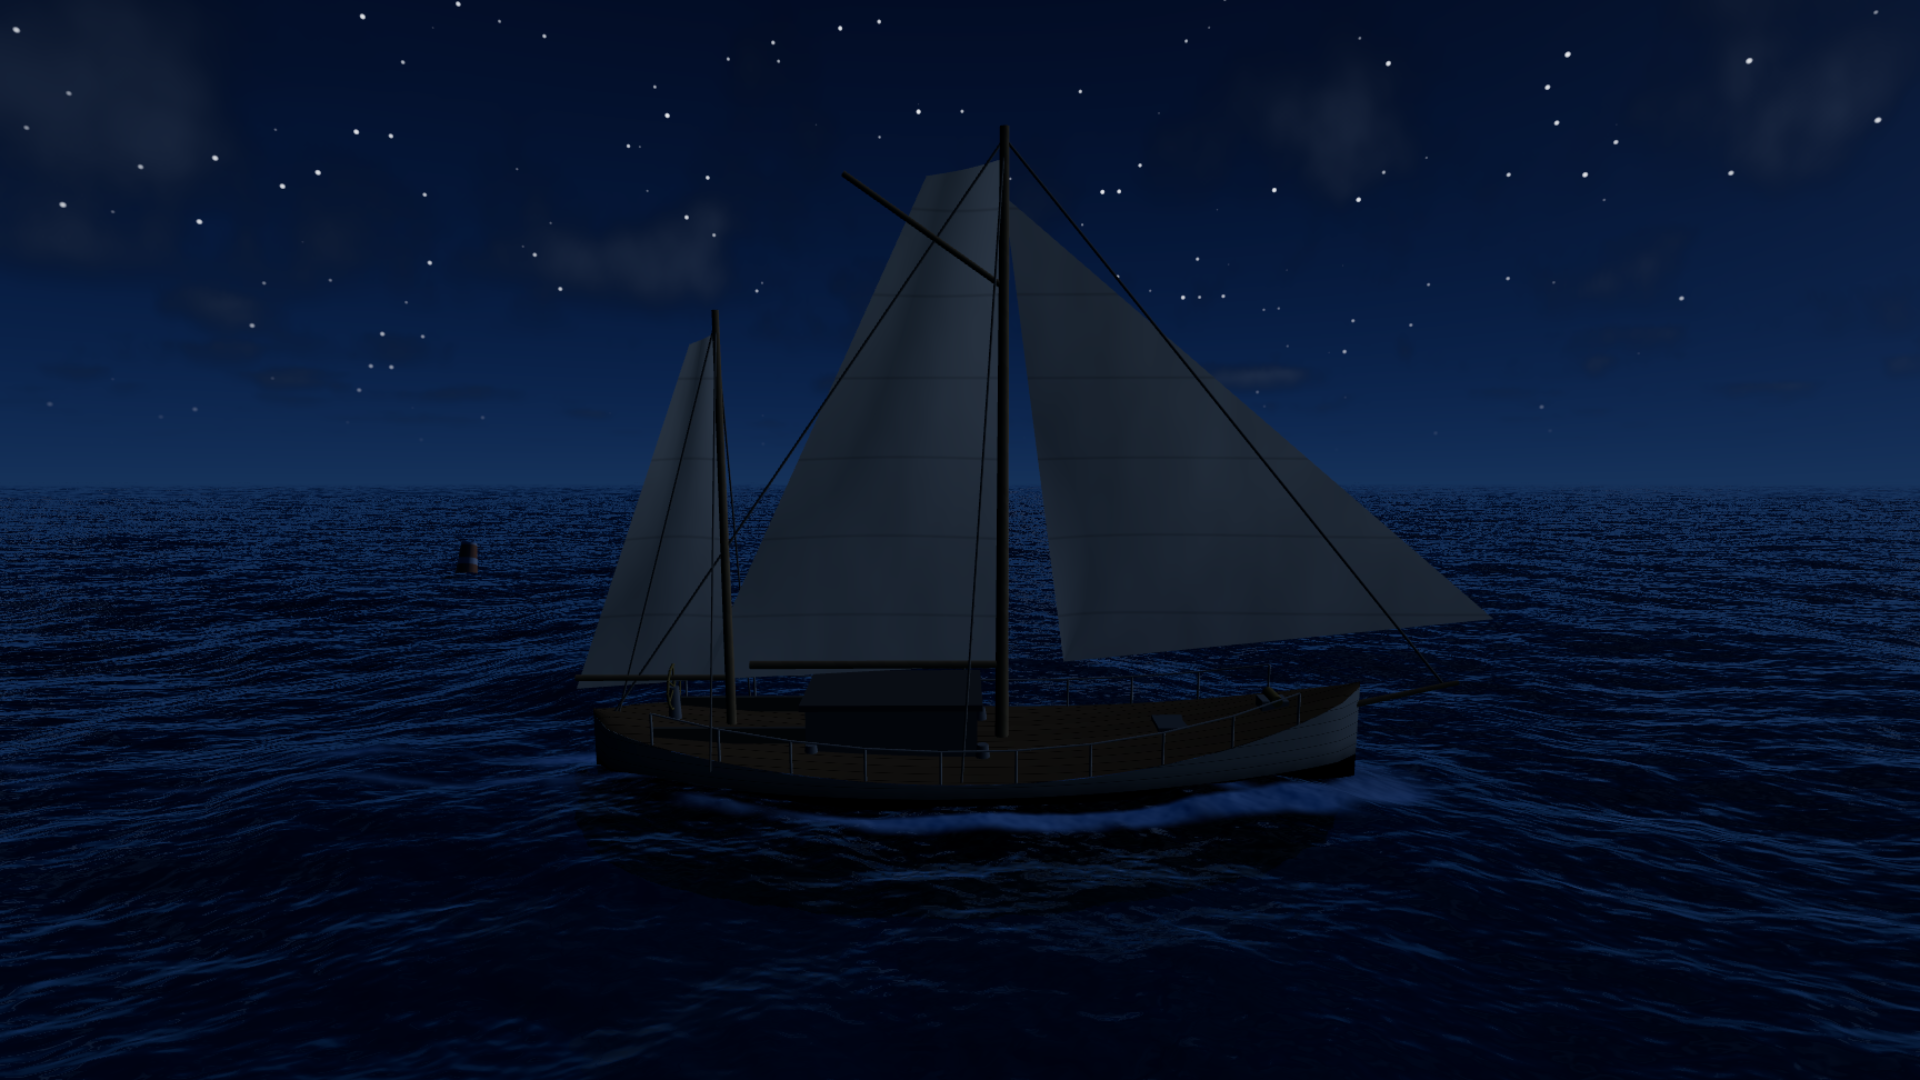
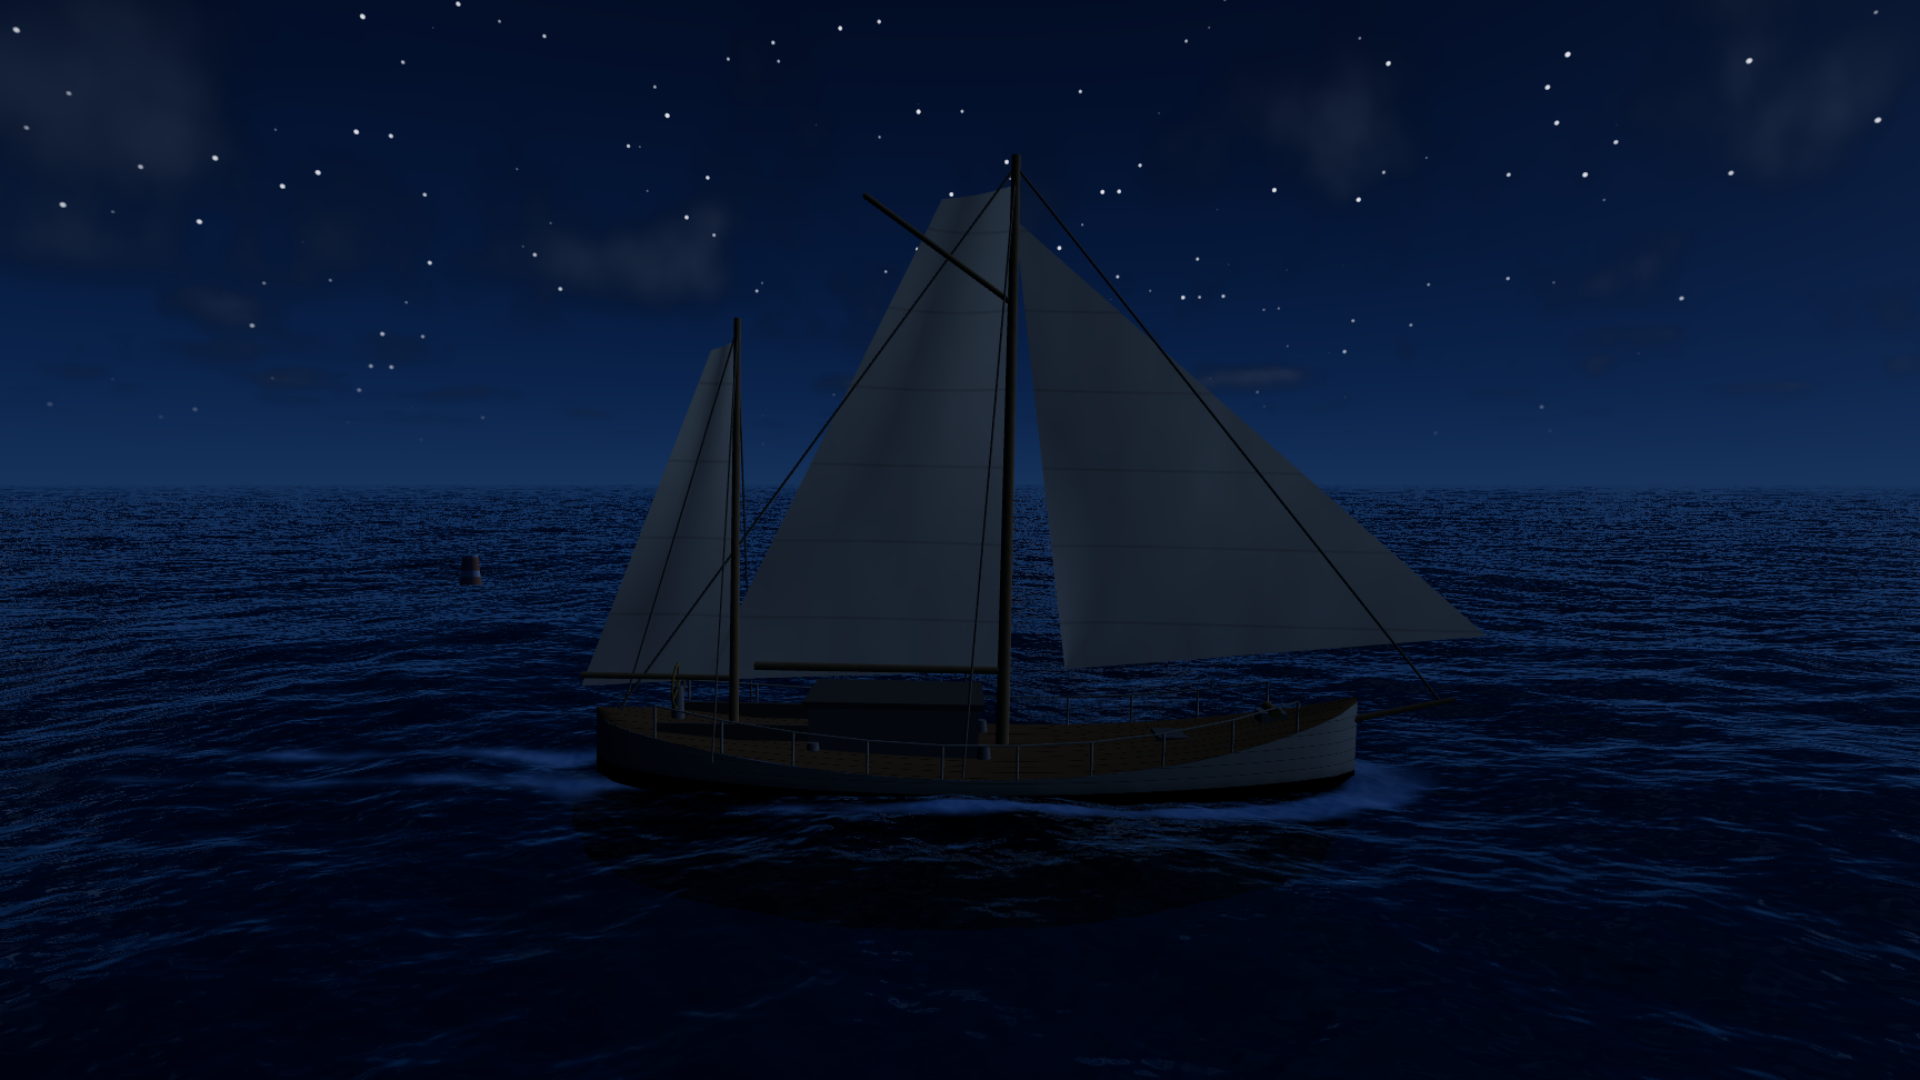
Add the glint lobe the variance model cannot produce
Scanned all 39 pages of the public documentation. It names the term we were
missing outright: a separate `sparkle`, "a view-dependent specular highlight
scaled by the surface normal, with distance-based fade", at power 512 with
minDistance 10 and fadeDistance 500.

That exponent is the point. Our GGX lobe takes its roughness from the slope
variance of everything the pixel covers, so it answers "how much light on
average" and structurally cannot answer "and a few facets are pointing exactly
at the sun". Sunlit water is covered in small hard points of light that a
variance model averages away, and their absence is most of why the reference
reads sharp beside us. So a second lobe about a degree wide — a stand-in for the
individual facet rather than for the distribution.

The distance window is what makes it safe, and it runs the opposite way to
intuition. Off inside ten metres, where the mesh and the ripple normals already
resolve real facets and a synthetic one would double them. Off again past a few
hundred, where a one-degree lobe on a per-pixel normal is pure aliasing — this
project has paid for that twice. It exists only in the band where the facets are
real but no longer resolvable. Flicker confirms it: 3.17% / 0.303% / 10.90%
against a baseline of 3.27% / 0.302% / 10.87%.

The scan also pinned down the two remaining gaps, both recorded in
gap-analysis.md. The wake is not an analytic Kelvin figure at all: it is a 512²
[…]

diff --git a/src/ocean/material.js b/src/ocean/material.js
@@ -384,6 +384,35 @@ export function createOceanMaterial( env, field, sky, opts = {} ) {
 			.mul( specD.mul( F ).mul( nDotL ).mul( u.sunIntensity ).mul( SUN_SPEC_SCALE ) )
 			.toVar( 'specular' );
 
+		// Glints, on top of the lobe.
+		//
+		// The GGX lobe above is broad by construction: its roughness is the slope
+		// variance of everything the pixel covers, so it answers "how much light
+		// on average" and cannot answer "and a few facets are pointing exactly at
+		// the sun". Real sunlit water is covered in small hard points of light that
+		// a variance model averages away, and their absence is most of why the
+		// reference's water looks sharp next to ours.
+		//
+		// So a second, very tight lobe. A Blinn exponent of 512 is about a degree
+		// wide — a stand-in for the individual facet, not for the distribution.
+		//
+		// The distance window is the whole reason this is safe, and it is the
+		// opposite way round from intuition. Off inside ten metres, because there
+		// the mesh and the ripple normals resolve the real facets and a synthetic
+		// one would double them. Off again past a few hundred, because by then a
+		// one-degree lobe on a per-pixel normal is pure aliasing — this project has
+		// paid for that lesson twice already. It exists only in the band where the
+		// facets are real but no longer resolvable.
+		const Hv = normalize( V.add( u.sunDir ) ).toVar( 'glintH' );
+		const glintBand = smoothstep( 6.0, 22.0, vRadial )
+			.mul( oneMinus( smoothstep( 160.0, 520.0, vRadial ) ) );
+
+		specular.addAssign( u.sunColor.mul(
+			pow( saturate( dot( N, Hv ) ), float( 512.0 ) )
+				.mul( glintBand ).mul( F ).mul( nDotL )
+				.mul( u.sunIntensity ).mul( u.sparkle ).mul( 3.2 )
+		) );
+
 		/* --- transmission ---------------------------------------------- */
 
 		// Refract along a *smoothed* normal, not the full per-pixel one.

diff --git a/src/env/uniforms.js b/src/env/uniforms.js
@@ -28,7 +28,7 @@ export const SCALAR_KEYS = [
 	// water optics
 	'waterClarity', 'absorptionR', 'absorptionG', 'absorptionB',
 	'roughness', 'sssStrength', 'reflectivity', 'varianceRough',
-	'volumeGeom', 'scatterStrength', 'groupStrength', 'bodySunGain',
+	'volumeGeom', 'scatterStrength', 'groupStrength', 'bodySunGain', 'sparkle',
 	// foam
 	'foamAmount', 'foamThreshold', 'foamPersistence', 'foamSharpness',
 	// underwater
@@ -113,6 +113,7 @@ export function defaultParams() {
 			scatterStrength: 0.085,
 			groupStrength: 0.35,
 			bodySunGain: 0.60,
+			sparkle: 0.85,
 			sssStrength: 1.0,        // back-lit wave crest translucency
 			reflectivity: 1.0,
 
@@ -213,6 +214,9 @@ export function createEnv() {
 		// 0 restores the old behaviour, in which the volume was lit by two
 		// constants and every face of every wave came out the same colour.
 		bodySunGain: uniform( 0.60 ),
+
+		// Strength of the tight glint lobe. 0 removes it exactly.
+		sparkle: uniform( 0.85 ),
 		backscatter: uniform( new Vector3( 0.02, 0.05, 0.06 ) ),
 		waveHs: uniform( 1.8 ),
 		sssStrength: uniform( 1 ),
@@ -354,6 +358,7 @@ export function syncUniforms( env, dt = 0 ) {
 	u.volumeGeom.value = p.volumeGeom ?? 1;
 	u.groupStrength.value = p.groupStrength ?? 0.35;
 	u.bodySunGain.value = p.bodySunGain ?? 0.60;
+	u.sparkle.value = p.sparkle ?? 0.85;
 	u.waveHs.value = Math.max( 0.05, p.waveHeight );
 
 	// Backscatter shares the scatter colour's chromaticity — they describe the

diff --git a/gap-analysis.md b/gap-analysis.md
@@ -139,7 +139,7 @@ Storm Front에서 가장 크게 벌어지는 항목이고, 정지 화면보다 *
 **좁히는 법**: 이미 `hullSunOcc` 를 갖고 있다. 같은 타원을 해저 카우스틱에도 곱한다.
 **가장 싸다.**
 
-### G8. 미세 스페큘러 밀도 ★★
+### G8. 미세 스페큘러 밀도 ★★ — **완료**
 
 참조 근거리 수면은 작고 날카로운 반짝임이 조밀하다. 우리 것은 더 넓고 뭉툭하다.
 `rippleSlope` 의 미세 옥타브가 30~400 m에서 페이드아웃되는데,
@@ -188,7 +188,45 @@ Storm Front에서 가장 크게 벌어지는 항목이고, 정지 화면보다 *
 - 1080p Open Sea는 양쪽 arm 모두 깨끗한 60 fps. 앞서 걱정한 "복사 때문에 52.8"은
   데워진 기계였다.
 
-**남은 것**: G5(SSR), G6(항적 변위), G8(미세 스페큘러).
+- **G8** — 공개 문서가 정확히 알려줬다: 별도의 `sparkle` 항이고
+  *"A view-dependent specular highlight scaled by the surface normal, with
+  distance-based fade"*, `power: 512`, `minDistance: 10`, `fadeDistance: 500`.
+  우리 GGX 로브는 픽셀이 덮는 경사 **분산**이라 "평균적으로 얼마나 밝은가"에
+  답할 뿐 "몇 개 면이 정확히 태양을 향한다"에는 답할 수 없다. 지수 512(약 1°)의
+  둘째 로브를 얹었다.
+  **거리 창이 이 항을 안전하게 만드는 전부이고, 방향이 직관과 반대다** —
+  근거리에서는 끄고(메시와 잔물결이 실제 면을 이미 해상한다) 원거리에서도 끈다
+  (1° 로브를 픽셀 법선에 걸면 순수 앨리어싱이다). 면이 실재하지만 더는 해상되지
+  않는 띠에만 존재한다. 플리커 회귀 없음(3.17 % / 0.303 % / 10.90 %).
+
+## 3c. 공개 문서 전면 스캔에서 얻은 남은 격차 사양 (39개 페이지)
+
+### G6 — 항적은 **격자 위의 실제 높이장**이다
+
+문서가 구조를 그대로 준다. 우리 것(포말 히스토리에만 존재)과 종류가 다르다.
+
+- `resolution: 512` 텍셀/변, `worldSize: 700` m, **카메라 중심**
+- 물체는 `addGenerator(Object3D)`로 등록, 프레임당 최대 16개가 주입
+- `depth: 1.2` m — *"Hull depth. The only control of wake amplitude"*
+- `radius: 4.0` m — *"Footprint radius over the swept path. Controls the wake width"*
+- `friction: 0.25` — *"Velocity damping. Higher values produce a shorter, more damped trail"*
+- `foamBreakThreshold` — **`|∇h|`가 임계를 넘으면** 포말 침착
+- `teleportThreshold: 5.0` m — 큰 프레임 간 이동은 순간이동으로 처리
+- 높이장이라 **부력이 그것을 읽는다** — 물체가 서로의 항적에 반응한다
+
+즉 해석적 켈빈 도형이 아니라 **감쇠 파동방정식을 푸는 512² 핑퐁 필드**다.
+포말은 그 필드의 기울기에서 파생되지 별도로 그리지 않는다.
+우리가 만들 것도 같은 형태여야 한다 — 그러면 켈빈 각이 저절로 나온다.
+
+### G5 — SSR
+
+- `strength: 0.8` — 하늘 반사 대비 블렌드 비율
+- `thickness: 0.1` — *"Depth-ratio threshold that rejects false reflections from
+  geometry close in front of the water"* (우리가 굴절에서 쓴 깊이 거부와 같은 종류)
+- `maxDistance` / `stepCount` — 품질 티어가 정하고, 티어를 바꾸면 수동값이 초기화됨
+- **high/ultra 전용**, 수중에서는 자동 비활성
+
+**남은 것**: G5(SSR), G6(항적 변위).
 
 ## 4. 권고 순서
 
